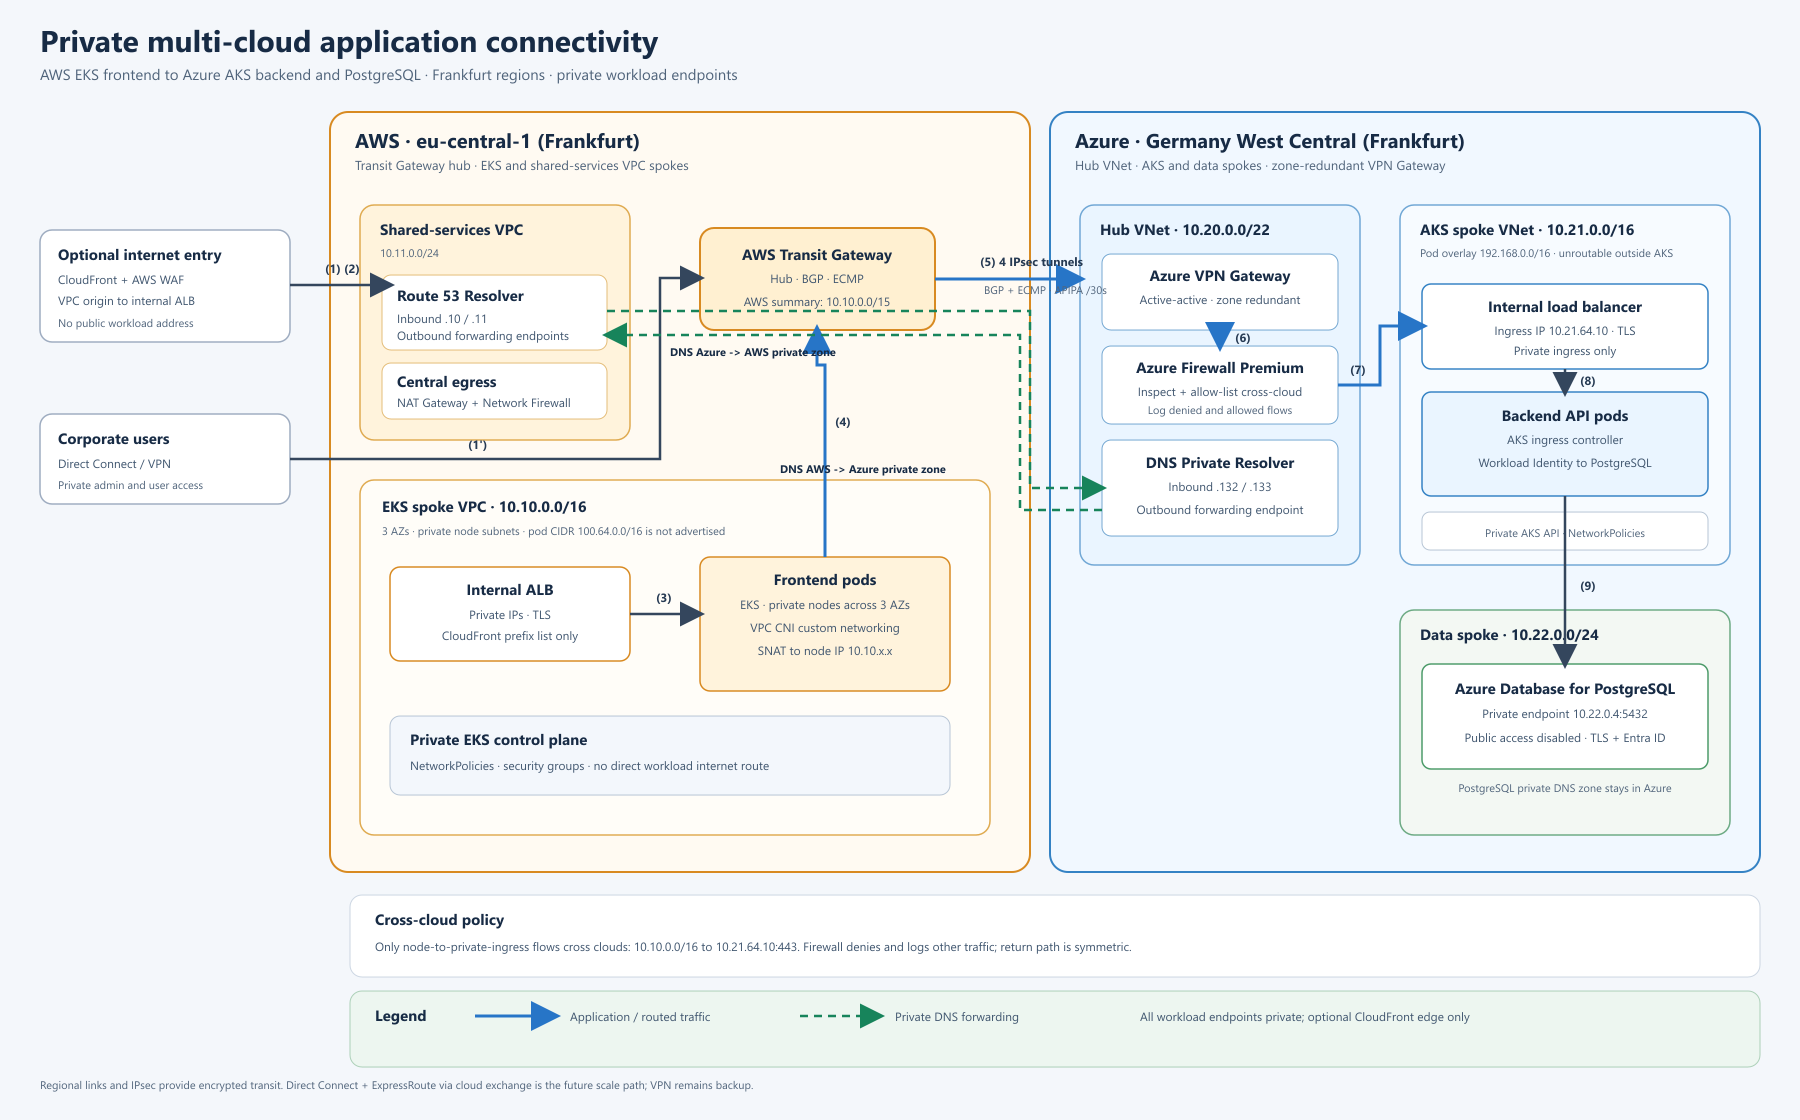
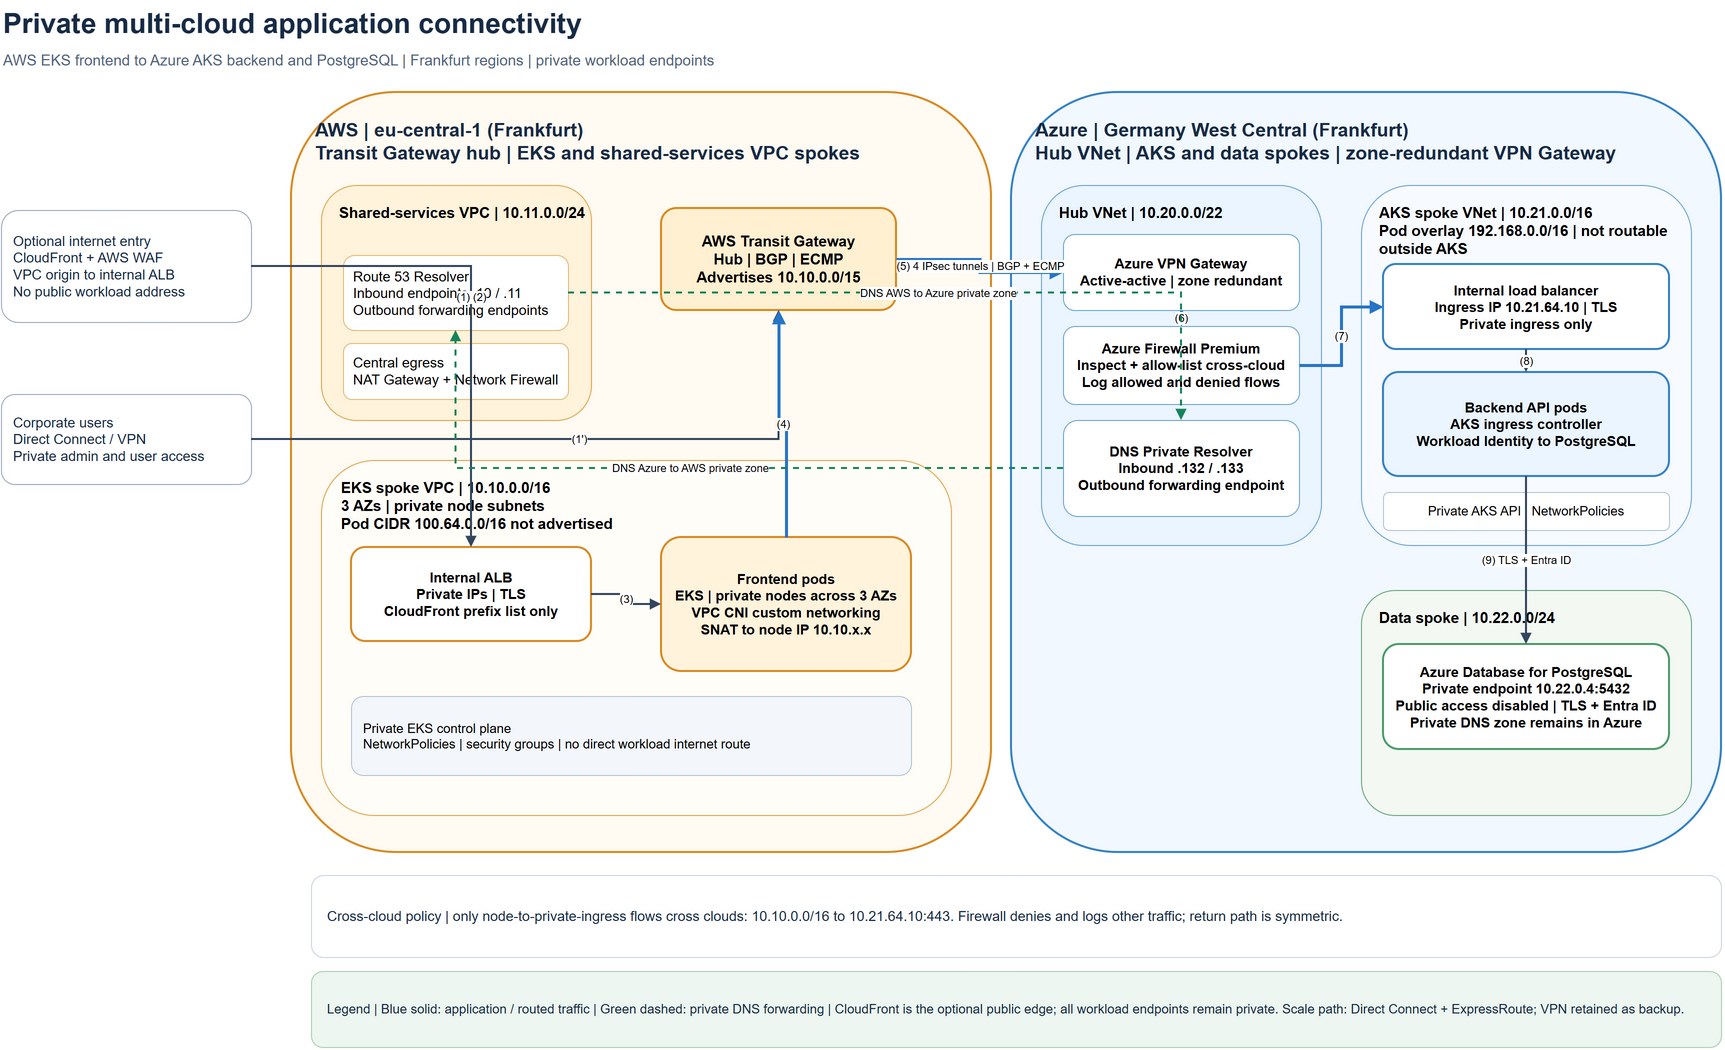
Add security fixes and deployment evidence

diff --git a/README.md b/README.md
@@ -154,7 +154,7 @@ ci.yml (pull_request)                         cd.yml (push to main)
 - **Build once, deploy the digest.** The image that passed the scan is exactly the one pushed (`docker push` of the loaded image). Terraform deploys it by `@sha256` digest, never by `latest`.
 - **Gates are separate from reports.** Each Trivy scan runs twice. The gate scans with severity HIGH/CRITICAL and `exit-code 1`. The report scans all severities as SARIF for the GitHub Security tab, with `exit-code 0`. Combining the two made the gate fail on low-severity findings, because the Trivy action ignores the severity filter when writing SARIF.
 - **Caching.** BuildKit layer cache in the GitHub Actions cache (`type=gha,mode=max`), Go build cache mounts in the Dockerfile, and a Terraform provider plugin cache.
-- **Safe re-runs.** Terraform is idempotent. Deploys are serialized (`concurrency: deploy-dev`, never cancelled mid-apply). State locking uses blob leases, and `-lock-timeout` absorbs contention.
+- **Safe re-runs.** Terraform is idempotent. Deploys are serialized (`concurrency: deploy-dev`, never cancelled mid-apply) and use blob leases; `-lock-timeout` absorbs contention. Pull-request plans use `-lock=false` and a read-only state role, so they cannot change state but may read the previous state if they overlap a deployment.
 - **Reusability.** One reusable build workflow serves both pull requests and `main`. One Terraform module is reused per environment through `envs/<env>.tfvars` and `envs/<env>.backend.hcl`.
 ---
  
@@ -181,11 +181,11 @@ Assumptions: a single subscription and a single environment (`dev`), parameteriz
  
 ### What I hardened, in priority order
  
-1. **No long-lived credentials anywhere** (highest blast radius). GitHub → Azure uses OIDC federated credentials whose subject includes the immutable GitHub owner and repo IDs, so a deleted or renamed repo recreated under the same name cannot assume them. The plan identity only works for `pull_request` and has Reader access. The deploy identity only works from the `dev` GitHub Environment and has Contributor on one resource group. The state storage account has shared keys disabled. GHCR uses the per-job `GITHUB_TOKEN`. The client, tenant and subscription IDs stored in GitHub are not secrets: without a matching GitHub-issued token they grant nothing.
+1. **No long-lived credentials anywhere** (highest blast radius). GitHub → Azure uses OIDC federated credentials whose subject includes the immutable GitHub owner and repo IDs, so a deleted or renamed repo recreated under the same name cannot assume them. The plan identity only works for `pull_request`; it has Reader on environment resource groups and Storage Blob Data Reader on state, and PR plans use `-lock=false`. The deploy identity only works from the `dev` GitHub Environment and has Contributor on one resource group. The state storage account has shared keys disabled. GHCR uses the per-job `GITHUB_TOKEN`. The client, tenant and subscription IDs stored in GitHub are not secrets: without a matching GitHub-issued token they grant nothing.
 2. **Vulnerable artifacts cannot ship.** Every build scans the repo's dependencies and secrets, the Terraform and k8s files, and the image before it is pushed. Each scan fails the build on fixable HIGH/CRITICAL findings. Results go to the GitHub Security tab (SARIF), and a CycloneDX SBOM is attached to every build.
 3. **Minimal, non-root runtime.** Distroless static image, UID 65532, no shell. In k8s: `runAsNonRoot`, `readOnlyRootFilesystem`, `allowPrivilegeEscalation: false`, all capabilities dropped, `RuntimeDefault` seccomp, no service-account token, default-deny NetworkPolicy.
 4. **Least privilege at runtime.** The app's managed identity has no role assignments.
-5. **State protection.** The state storage account and container have `prevent_destroy`, versioning and soft delete.
+5. **State protection.** The state storage account and container have `prevent_destroy`, versioning and soft delete. PR plans cannot write state or acquire its lease; deployments retain normal state locking.
 6. **Supply chain.** Every third-party action is pinned by commit SHA. Workflows start from `permissions: {}` and grant per job. Dependabot tracks actions, base images, Go and providers, and ignores major provider versions, which need a deliberate upgrade.
 ### Policy on HIGH/CRITICAL findings
  
@@ -193,11 +193,13 @@ The build **fails** on HIGH or CRITICAL findings that have a fix available (`--i
  
 ### Evidence
  
-- `docs/evidence/trivy-image-before.txt`: the first pipeline run, with **19 HIGH** CVEs in the Go 1.24.13 standard library. That version no longer receives security fixes, and the gate blocked the push.
-- `docs/evidence/trivy-image-after.txt`: the same scan after moving the build to Go 1.27, with 0 HIGH/CRITICAL.
+- [Successful CD run](https://github.com/1MaRo2/platform-exercise/actions/runs/36275811933): the build, scans, deploy and smoke test all passed.
+- `docs/evidence/terraform-bootstrap-plan.txt`: the current bootstrap plan reports **No changes**. This is the bootstrap stack, not the dev application plan.
+- [`terraform-bootstrap-plan.txt`](docs/evidence/terraform-bootstrap-plan.txt): the current bootstrap plan reports **No changes**. This is the bootstrap stack, not the dev application plan.
+- [Screenshot of the failed image-scan job](docs/evidence/trivy-gate-failure.png) in [Actions run 36196043670](https://github.com/1MaRo2/platform-exercise/actions/runs/36196043670). The corresponding [`trivy-image-before.txt`](docs/evidence/trivy-image-before.txt) report records **19 HIGH** Go 1.24.13 standard-library CVEs; the gate blocked the push.
+- `docs/evidence/trivy-image-after.txt`: the scan after moving the build to Go 1.27, with 0 HIGH/CRITICAL.
 - `docs/evidence/trivy-config.txt`: the IaC scan, with 1 CRITICAL accepted with its rationale and 0 unaccepted.
-- `docs/evidence/local-checks.txt`: unit tests, binary size, hadolint, terraform fmt, tflint and actionlint.
-- The GitHub Security tab and the Actions run summaries (image size, Terraform plan, smoke test).
+- [`local-checks.txt`](docs/evidence/local-checks.txt): current Go 1.27 vet, race-test, build, hadolint and Terraform format results; unavailable local checks are called out.
 ### Tradeoffs made under the time and budget limits
  
 - Public ingress on the demo app, and a public GHCR image instead of a private ACR.
